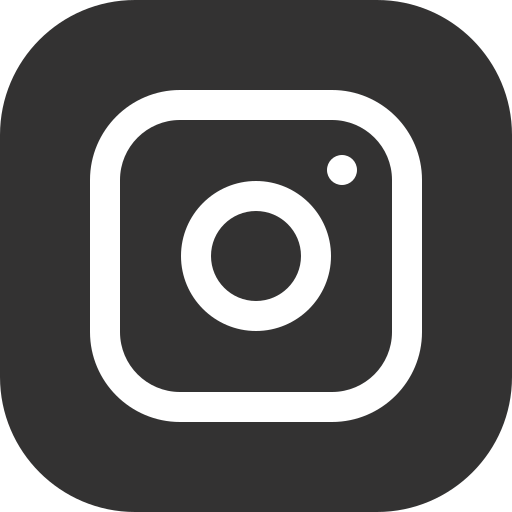
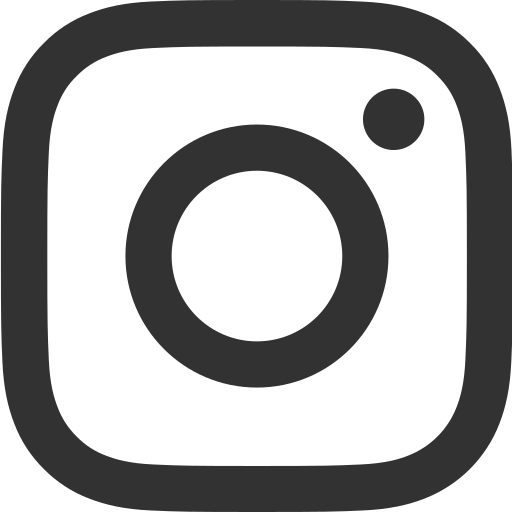
mercredi soir

diff --git a/assets/styles/style.css b/assets/styles/style.css
@@ -55,14 +55,15 @@ button {
   display: none;
   position: fixed;
   align-self: flex-end;
-  bottom: 85px;
-  background-color: var(--blue);
+  bottom: 45px;
+  background-color: var(--black);
   border: none;
   border-radius: 15px;
   cursor: pointer;
   box-shadow: 0px 0px 4px 0px var(--black);
   transition: all 0.1s ease-in-out;
   margin-right: 15px;
+  z-index: 4;
 }
 #backToTopBtn:hover {
   background-color: var(--blue);
@@ -183,7 +184,125 @@ header {
   display: none;
 }
 /*******************FOOTER*/
-
+footer{
+  bottom: 0;
+  width: 100%;
+  display: flex;
+  flex-direction: column;
+  justify-content: center;
+  background-color: var(--blue);
+  gap: 3rem;
+  background-image: url(/assets/img/traits-noirs.png);
+  background-repeat: no-repeat;
+  background-size: 100%;
+  background-position: top -6% right -6rem;
+}
+#traits-footer{
+  position: absolute;
+  left: auto;
+  height: 300px;
+  transform: rotate(116deg);
+}
+.footer-logo{
+  padding: 5%;
+  height: 85px;
+  width: 90%;
+  display: flex;
+  align-items: center;
+  justify-content: flex-start;
+}
+.footer-logo img{
+  height: 100%;
+}
+.footer-rose{
+  display: flex;
+  justify-content: center;
+  align-items: center;
+  height: 140px;
+  width: 75%;
+  border-top-right-radius: 150px;
+  border-bottom-right-radius: 150px;
+  background-color: var(--rose);
+  gap: 1.5rem;
+}
+.footer-contact{
+  display: flex;
+  flex-direction: column;
+  align-items: center;
+  justify-content: center;
+  gap: 10px;
+}
+footer h3{
+  color: var(--white);
+  letter-spacing: 4px;
+  font-weight: 500;
+}
+footer a{
+  color: var(--black);
+  letter-spacing: 2px;
+}
+.footer-reseau{
+  display: flex;
+  flex-direction: column;
+  align-items: center;
+  justify-content: center;
+  gap: 10px;
+}
+.footer-reseau img{
+  width: 20px;
+}
+.footer-reseau img:nth-child(2){
+  padding-left: 5px;
+}
+.footer-jaune{
+  align-self: flex-end;
+  display: flex;
+  justify-content: center;
+  align-items: center;
+  height: 165px;
+  width: 85%;
+  border-top-left-radius: 150px;
+  border-bottom-left-radius: 150px;
+  background-color: var(--yellow);
+  gap: 1.5rem;
+}
+.footer-jaune img{
+  height: 40px;
+}
+.footer-jaune iframe{
+  border: solid 2px var(--blue);
+  border-radius: 10px;
+  height: 85%;
+  width: 70%;
+}
+.footer-bottom{
+  display: flex;
+  align-items: flex-end;
+  justify-content: center;
+  height: 175px;
+  gap: 1rem;
+}
+.footer-sitemap{
+  height: 100%;
+  width: 110px;
+  display: flex;
+  flex-direction: column;
+  align-items: center;
+  justify-content: center;
+  gap: 10px;
+  background-color: var(--orange);
+  border-top-left-radius: 150px;
+  border-top-right-radius: 150px;
+}
+#copyright{
+  font-size: 15px;
+  letter-spacing: 0;
+  padding-bottom: 10px;
+}
+#copyright span{
+  color: var(--yellow);
+}
+/**************************************************************BODY*/
 section {
   height: auto;
   display: flex;
@@ -192,7 +311,7 @@ section {
   justify-content: space-between;
   width: 100vw;
 }
-/*********************************************************.LANDING*/
+/**************************************LANDING-SECTION*/
 .landing-section {
   width: 85%;
   height: 90vh;
@@ -371,14 +490,6 @@ input:focus {
   height: 1000px;
   padding: 10% 5%;
 }
-
-/*************************FOOTER*******************************/
-footer {
-  bottom: 0;
-  height: 900px;
-  display: flex;
-  flex-direction: column;
-  align-items: center;
-  justify-content: space-around;
-  background-color: var(--blue);
+.menu-section h2{
+  color: var(--white);
 }

diff --git a/index.html b/index.html
@@ -77,12 +77,44 @@
             <img id="vinyl" src="assets/img/icones/icon-vinyl.png" alt="">
         </div>
         <div class="menu-section">
-            <h2>NOTRE CARTE</h2>
-            <p>Découvrez le menu du Bivouac qui comporte un assortiment de tartinades et de tapas. Des plats faits maison tels que le chili con carne ou le poulet au curry, des salades de saison et pour finir nos desserts parfaits pour l’été</p>
+            <div class="menu-title">
+                <h2>NOTRE CARTE</h2>
+                <p>Découvrez le menu du Bivouac qui comporte un assortiment de tartinades et de tapas. </p>
+            </div>
+            
         </div>
     </section>
     <footer>
-        
+        <!-- <img id="traits-footer" src="assets/img/traits-noirs.png" alt=""> -->
+        <div class="footer-logo">
+            <img src="assets/img/logo/logo-1.png" alt="logo du bivouac">
+        </div>
+        <div class="footer-rose">
+            <div class="footer-contact">
+                <h3>NOUS CONTACTER</h3>
+               <a href="tel:+33464435621">04 64 43 56 21</a>
+               <a href="https://maps.app.goo.gl/NW747xAmQ2omTCGVA">646 ROUTE DE CAUX, PEZENAS</a>
+               <a href="mailto:contact@myitbox.fr">CONTACT@LEBIVOUAC.FR</a>
+            </div>
+            <div class="footer-reseau">
+                <a href="https://www.facebook.com/lebivouacquifume/" target="_blank"><img src="assets/img/social-media/fb.png" alt="logo facebook"></a>
+                <a href="https://www.instagram.com/lebivouacquifume/" target="_blank"><img src="assets/img/social-media/insta.png" alt="logo instagram"></a> 
+                <a href="https://www.linkedin.com/in/" target="_blank"><img src="assets/img/social-media/linked.png" alt="logo linkedin"></a>
+            </div>
+        </div>
+        <div class="footer-jaune">
+            <img src="assets/img/icones/icon-location.png" alt="">
+            <iframe src="https://www.google.com/maps/embed?pb=!1m18!1m12!1m3!1d1169.887111363188!2d3.407595021957297!3d43.46926179357552!2m3!1f0!2f0!3f0!3m2!1i1024!2i768!4f13.1!3m3!1m2!1s0x12b16a88f841b377%3A0x4d61f721ab2f2e47!2s646%20Rte%20de%20Caux%2C%2034120%20P%C3%A9zenas!5e1!3m2!1sfr!2sfr!4v1713362331516!5m2!1sfr!2sfr" style="border:0;" allowfullscreen="" loading="lazy" referrerpolicy="no-referrer-when-downgrade"></iframe>
+        </div>
+        <div class="footer-bottom">
+            <div class="footer-sitemap">
+                <h3>SITEMAP</h3>
+                <a href="#events">ÉVÉNEMENTS</a>
+                <a href="#menu">MENU</a>
+                <a href="#contact">CONTACT</a>
+            </div>
+            <a href="" id="copyright">Tous droits réservés par <span>LEBIVOUACQUIFUME</span></a>
+        </div>
     </footer>
     <button id="backToTopBtn" onclick="scrollToTop()" aria-label="button back to top"><img src="assets/img/arrow-backtotop.webp" alt=""></button>
     <script>
